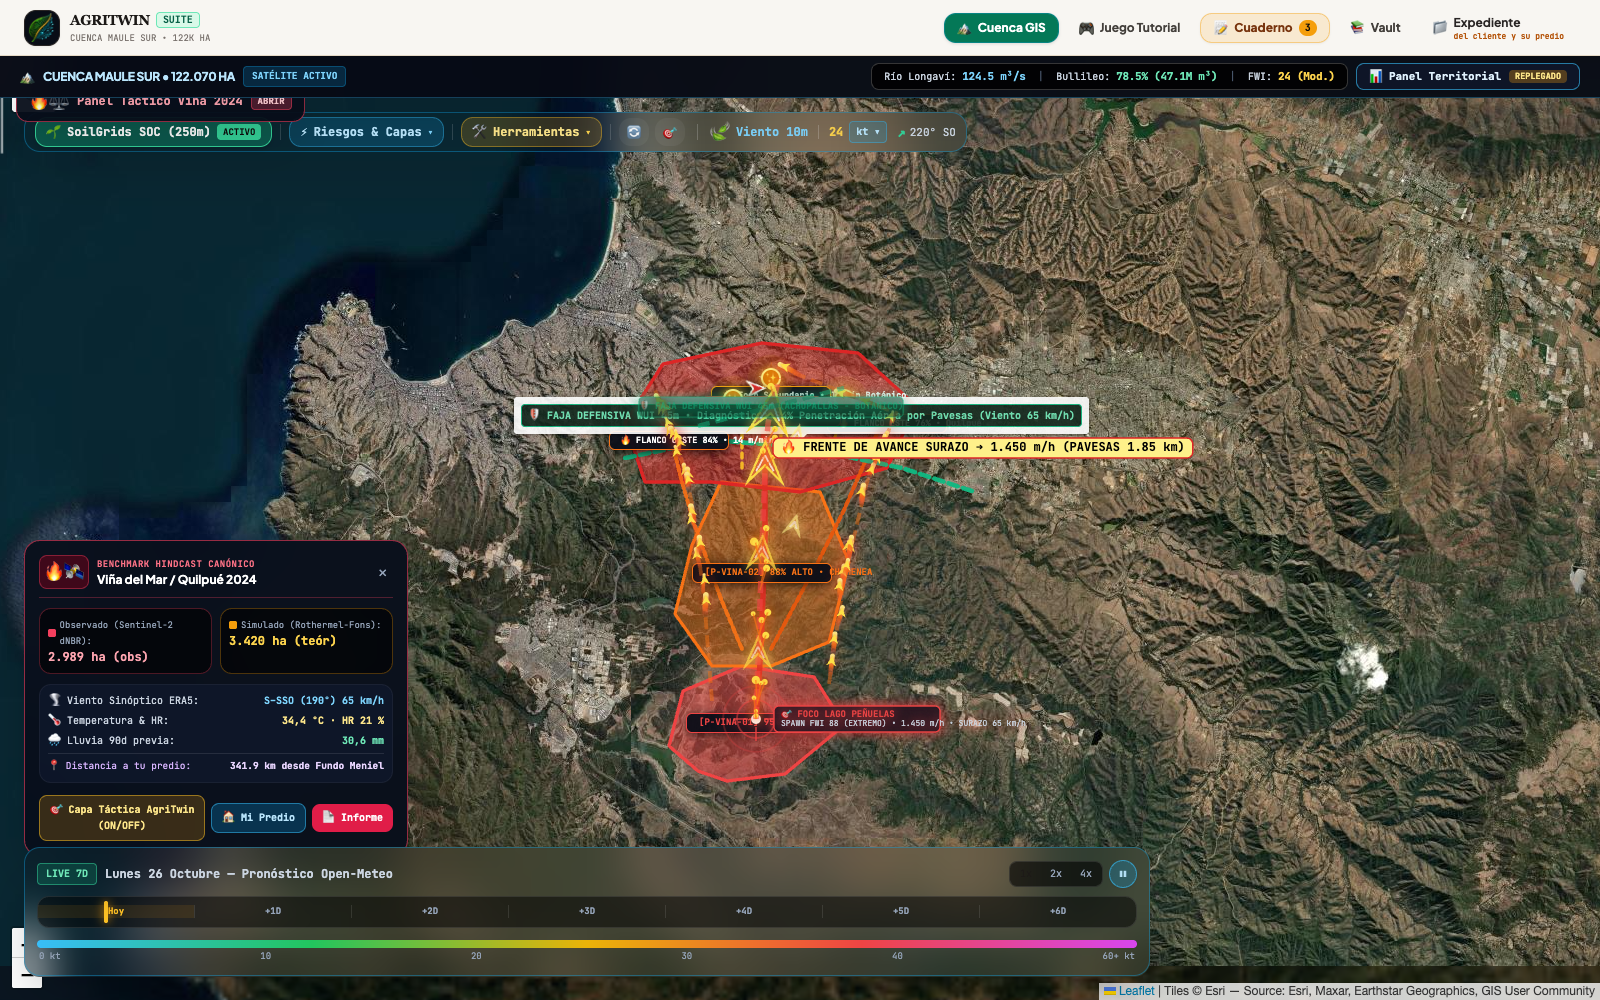
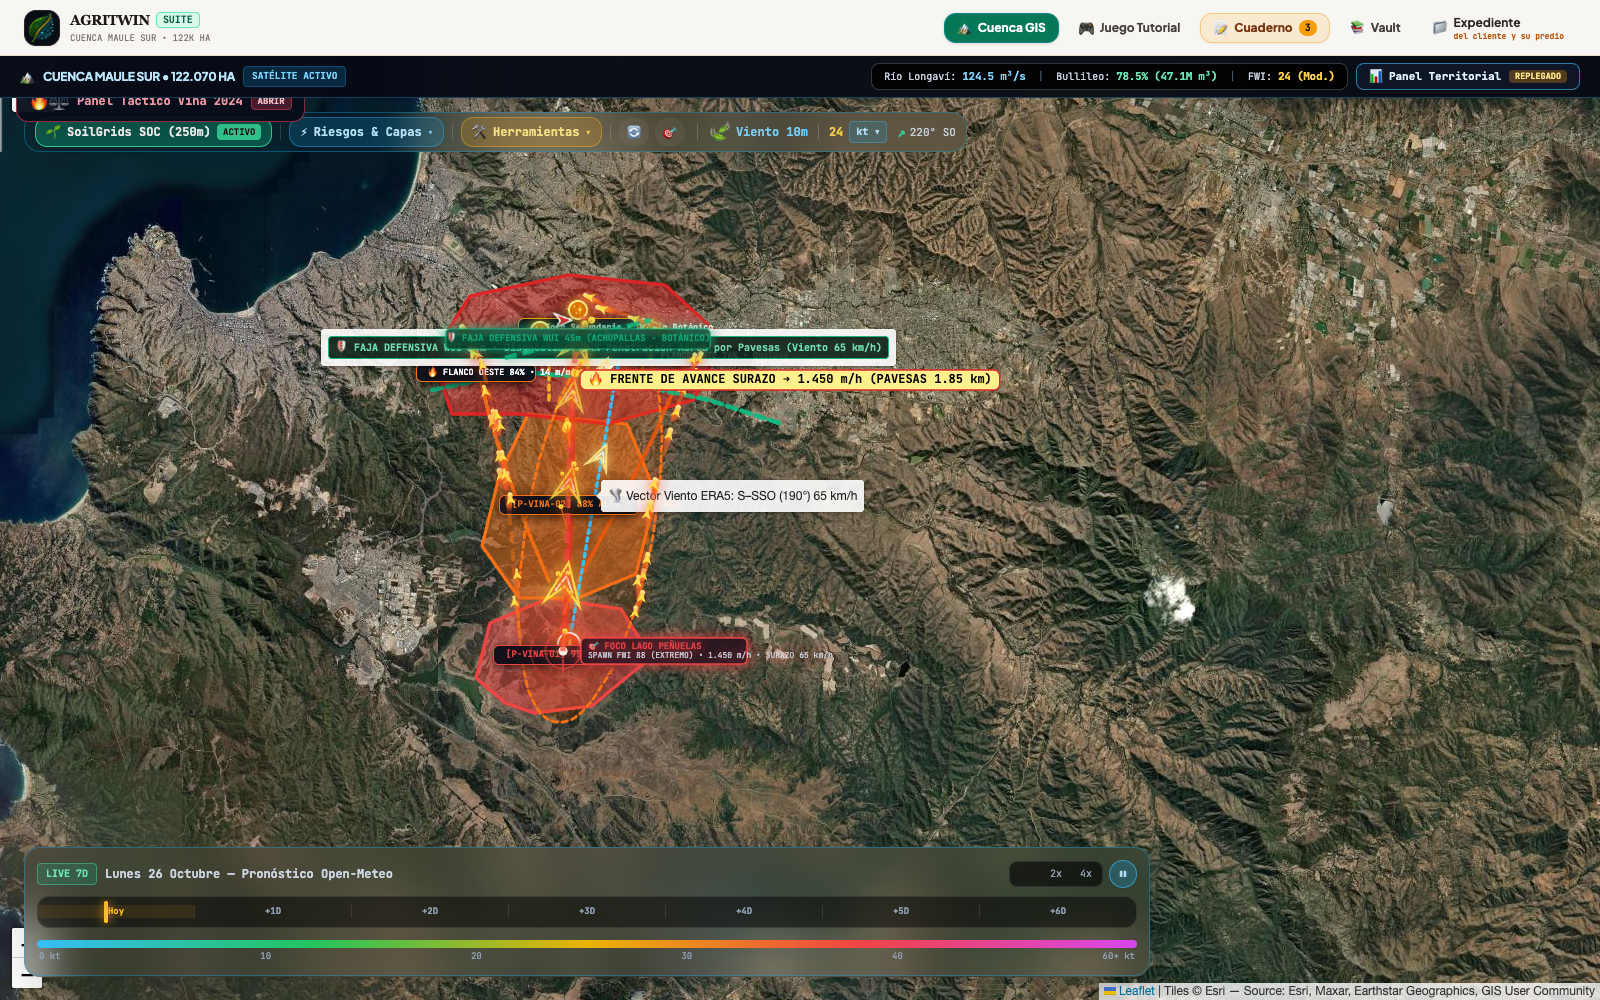
refactor(hindcast): fusionar telemetria predial en drawer y suprimir HUD flotante primitivo

diff --git a/index.html b/index.html
@@ -13644,6 +13644,14 @@ print(meniel_soil)</code></pre>
                     🔥 Viña del Mar 2024 (2.989 ha)
                 </button>
             </div>
+
+            <!-- Pastilla de Distancia Predial y Telemetría Rápida (incorporada del HUD de operaciones anterior) -->
+            <div class="flex items-center justify-between px-2.5 py-1.5 rounded-lg bg-black/60 border border-purple-500/30 text-[10px]">
+                <span class="text-slate-300 flex items-center gap-1.5 font-sans">
+                    <span class="text-xs">📍</span> Distancia a tu predio activo:
+                </span>
+                <b id="drawerFarmDistanceBadge" class="text-purple-300 font-mono font-bold">Calculando...</b>
+            </div>
             <p class="text-[10px] text-slate-300 font-sans leading-snug">
                 Contraste verídico entre el <strong>Incendio Real Observado</strong> (satélite dNBR post-evento) vs la <strong>Retro-Proyección Ciega T-24h</strong> (calculada solo con insumos previos al evento).
             </p>
@@ -13861,69 +13869,6 @@ print(meniel_soil)</code></pre>
                 </button>
             </div>
 
-        </div>
-    </div>
-
-    <!-- FLOATING BENCHMARK HINDCAST MAP HUD (Overlay interactivo en Mirador Cuenca) -->
-    <div id="hindcastMapHUD" class="hidden absolute bottom-36 left-6 z-30 w-96 max-w-[calc(100vw-3rem)] bg-[#070e1a]/95 backdrop-blur-2xl border border-rose-500/60 p-3.5 rounded-2xl shadow-2xl space-y-2.5 text-slate-200 font-mono text-xs select-none">
-        <div class="flex items-center justify-between border-b border-rose-500/30 pb-2">
-            <div class="flex items-center gap-2">
-                <span class="text-base p-1 rounded-lg bg-rose-950/80 border border-rose-500/40 text-rose-300">🔥🛰</span>
-                <div>
-                    <span class="text-[9px] font-bold text-rose-400 uppercase tracking-wider block">BENCHMARK HINDCAST CANÓNICO</span>
-                    <strong id="hindcastHudTitle" class="text-xs text-white font-bold font-sans">Santa Juana 2023</strong>
-                </div>
-            </div>
-            <button onclick="document.getElementById('hindcastMapHUD').classList.add('hidden')" class="text-slate-400 hover:text-white text-sm px-1.5 py-0.5 rounded hover:bg-white/10 cursor-pointer" title="Cerrar HUD">✕</button>
-        </div>
-
-        <!-- Métricas comparativas lado a lado -->
-        <div class="grid grid-cols-2 gap-2 text-[10.5px]">
-            <div class="p-2 rounded-xl bg-black/60 border border-rose-500/30 space-y-0.5">
-                <span class="text-slate-400 text-[9px] block flex items-center gap-1">
-                    <span class="w-2 h-2 rounded-sm bg-rose-500"></span> Observado (Sentinel-2 dNBR):
-                </span>
-                <b id="hindcastHudObsArea" class="text-rose-300 text-xs font-black">42.599 ha</b>
-            </div>
-            <div class="p-2 rounded-xl bg-black/60 border border-amber-500/30 space-y-0.5">
-                <span class="text-slate-400 text-[9px] block flex items-center gap-1">
-                    <span class="w-2 h-2 rounded-sm bg-amber-500"></span> Simulado (Rothermel-Fons):
-                </span>
-                <b id="hindcastHudSimArea" class="text-amber-300 text-xs font-black">44.850 ha</b>
-            </div>
-        </div>
-
-        <!-- Clima y Viento ERA5 de esa semana -->
-        <div class="p-2 rounded-xl bg-slate-900/80 border border-white/5 space-y-1 text-[10px]">
-            <div class="flex justify-between items-center text-slate-300">
-                <span>🌪 Viento Sinóptico ERA5:</span>
-                <b id="hindcastHudWind" class="text-sky-300 font-bold">SE 58 km/h</b>
-            </div>
-            <div class="flex justify-between items-center text-slate-300">
-                <span>🌡 Temperatura & HR:</span>
-                <b id="hindcastHudTemp" class="text-amber-200">40,0 °C · HR 11%</b>
-            </div>
-            <div class="flex justify-between items-center text-slate-300">
-                <span>🌧 Lluvia 90d previa:</span>
-                <b id="hindcastHudRain" class="text-emerald-300">96,8 mm</b>
-            </div>
-            <div class="flex justify-between items-center pt-1 border-t border-white/10 text-[9.5px] text-purple-300">
-                <span>📍 Distancia a tu predio:</span>
-                <b id="hindcastHudFarmDist" class="text-purple-200">135 km desde Fundo Meniel</b>
-            </div>
-        </div>
-
-        <!-- Botones de Acción Rápida -->
-        <div class="flex items-center gap-1.5 pt-0.5">
-            <button onclick="window.toggleHindcastSimulationLayer()" id="btnToggleHindcastEllipse" class="flex-1 py-1.5 px-2 rounded-lg bg-amber-500/20 hover:bg-amber-500/35 border border-amber-400/50 text-amber-200 hover:text-white text-[10px] font-bold text-center transition-all cursor-pointer">
-                🎯 Capa Táctica AgriTwin (ON/OFF)
-            </button>
-            <button onclick="window.returnToActiveFarmFromHindcast()" class="py-1.5 px-2.5 rounded-lg bg-sky-600/30 hover:bg-sky-600/50 border border-sky-400/50 text-sky-200 hover:text-white text-[10px] font-bold transition-all cursor-pointer" title="Volver a centrar el mapa en tu predio activo">
-                🏠 Mi Predio
-            </button>
-            <a href="docs/INFORME_HINDCAST_REAL_IMPRIMIBLE.html" target="_blank" class="py-1.5 px-2.5 rounded-lg bg-rose-600 hover:bg-rose-700 text-white text-[10px] font-bold transition-all flex items-center justify-center cursor-pointer shadow-sm" title="Abrir Informe Técnico Imprimible">
-                📄 Informe
-            </a>
         </div>
     </div>
 

diff --git a/js/hub/geo-layers.js b/js/hub/geo-layers.js
@@ -2351,6 +2351,20 @@
                     : 'py-1 px-2 rounded-lg text-[10px] font-bold bg-black/50 hover:bg-white/10 text-slate-300 border border-white/10 cursor-pointer';
             }
 
+            const distBadge = document.getElementById('drawerFarmDistanceBadge');
+            if (distBadge) {
+                const originPt = isVina ? L.latLng(-33.1380, -71.4980) : L.latLng(-37.3820, -72.7850);
+                const prof = (window.farmProfileManager && window.farmProfileManager.getActiveProfile)
+                    ? window.farmProfileManager.getActiveProfile()
+                    : null;
+                const farmLat = prof?.coordinates?.lat || -36.2115;
+                const farmLon = prof?.coordinates?.lon || -71.6050;
+                const distKm = (typeof map !== 'undefined' && map)
+                    ? (map.distance(originPt, L.latLng(farmLat, farmLon)) / 1000).toFixed(1)
+                    : (isVina ? '341.9' : '135.0');
+                distBadge.innerText = `${distKm} km desde ${activeFarmName}`;
+            }
+
             const infoIncendio = document.getElementById('vinaDrawerContent-incendio');
             const infoRiesgo = document.getElementById('vinaDrawerContent-riesgo');
             const infoComparar = document.getElementById('vinaDrawerContent-comparar');
@@ -2626,6 +2640,20 @@
             if (chkR && chkR.checked !== window.hindcastLayersState.prediccion) chkR.checked = window.hindcastLayersState.prediccion;
 
             // Actualizar vistas del drawer según la combinación activa
+            const distBadge = document.getElementById('drawerFarmDistanceBadge');
+            if (distBadge) {
+                const originPt = isVina ? L.latLng(-33.1380, -71.4980) : L.latLng(-37.3820, -72.7850);
+                const prof = (window.farmProfileManager && window.farmProfileManager.getActiveProfile)
+                    ? window.farmProfileManager.getActiveProfile()
+                    : null;
+                const farmLat = prof?.coordinates?.lat || -36.2115;
+                const farmLon = prof?.coordinates?.lon || -71.6050;
+                const distKm = (typeof map !== 'undefined' && map)
+                    ? (map.distance(originPt, L.latLng(farmLat, farmLon)) / 1000).toFixed(1)
+                    : (isVina ? '341.9' : '135.0');
+                distBadge.innerText = `${distKm} km desde ${activeFarmName}`;
+            }
+
             const infoIncendio = document.getElementById('vinaDrawerContent-incendio');
             const infoRiesgo = document.getElementById('vinaDrawerContent-riesgo');
             const infoComparar = document.getElementById('vinaDrawerContent-comparar');
@@ -2736,8 +2764,6 @@
             const lat = prof?.coordinates?.lat || -36.2115;
             const lon = prof?.coordinates?.lon || -71.6050;
             map.flyTo([lat, lon], 13, { duration: 1.2 });
-            const hud = document.getElementById('hindcastMapHUD');
-            if (hud) hud.classList.add('hidden');
             if (map.hasLayer(hindcastSimulationLayer)) map.removeLayer(hindcastSimulationLayer);
             if (map.hasLayer(hindcastTacticalLayer)) map.removeLayer(hindcastTacticalLayer);
             if (map.hasLayer(hindcastPredictionLayer)) map.removeLayer(hindcastPredictionLayer);
@@ -3480,17 +3506,9 @@
                 });
             }
 
-            // 9. Mostrar y actualizar HUD flotante en el mapa
-            const hud = document.getElementById('hindcastMapHUD');
-            if (hud) {
-                hud.classList.remove('hidden');
-                document.getElementById('hindcastHudTitle').innerText = titleEvent;
-                document.getElementById('hindcastHudObsArea').innerText = scarAreaHa;
-                document.getElementById('hindcastHudSimArea').innerText = simAreaHa;
-                document.getElementById('hindcastHudWind').innerText = `${windLabel} ${windGust}`;
-                document.getElementById('hindcastHudTemp').innerText = `${tempC} · HR ${hrPct}`;
-                document.getElementById('hindcastHudRain').innerText = rain90d;
-
+            // 9. Actualizar badge de distancia en drawer de benchmark
+            const distBadge = document.getElementById('drawerFarmDistanceBadge');
+            if (distBadge) {
                 const prof = (window.farmProfileManager && window.farmProfileManager.getActiveProfile)
                     ? window.farmProfileManager.getActiveProfile()
                     : null;
@@ -3498,7 +3516,7 @@
                 const farmLat = prof?.coordinates?.lat || -36.2115;
                 const farmLon = prof?.coordinates?.lon || -71.6050;
                 const distKm = (map.distance(L.latLng(originLat, originLng), L.latLng(farmLat, farmLon)) / 1000).toFixed(1);
-                document.getElementById('hindcastHudFarmDist').innerText = `${distKm} km desde ${farmName}`;
+                distBadge.innerText = `${distKm} km desde ${farmName}`;
             }
 
             // 10. Sincronizar botones en la barra lateral
